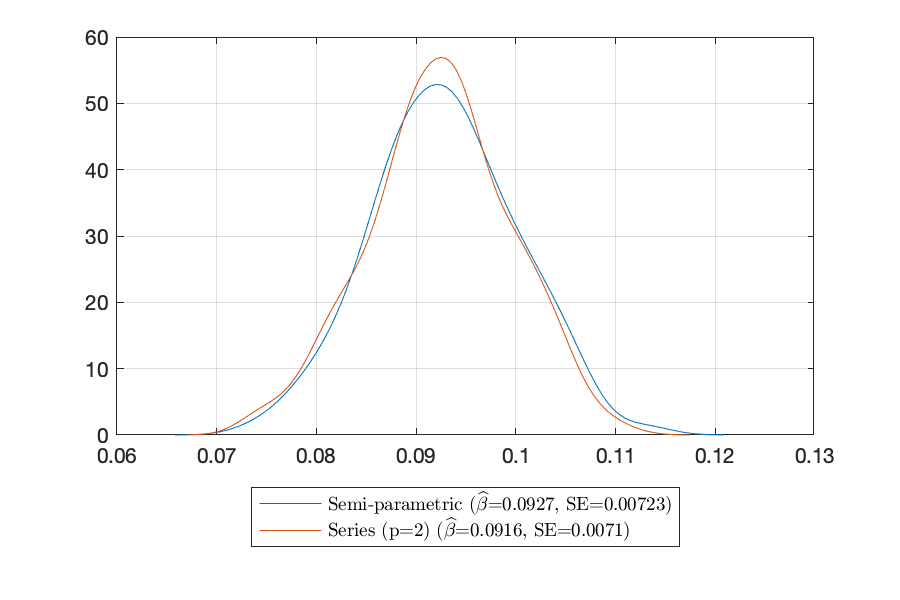
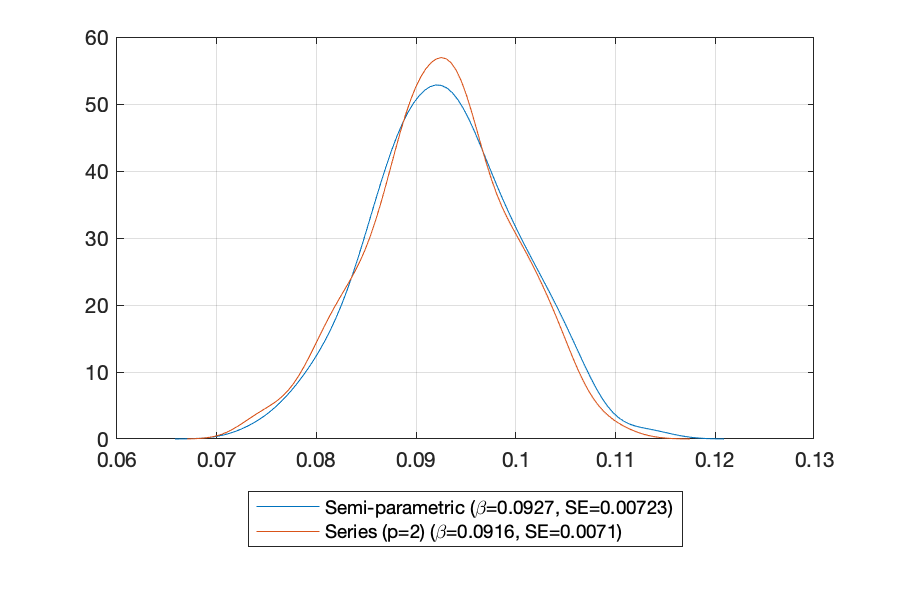
update fig 2

diff --git a/mpm/ps7/eric/main2.m b/mpm/ps7/eric/main2.m
@@ -93,10 +93,10 @@ ksdensity(ResBoot.semipara)
 ksdensity(ResBoot.linear)
 box on
 grid on
-legend({['Semi-parametric ($\widehat{\beta}$=' num2str(beta0, 3) ...
+lgd = legend({['Semi-parametric (\beta=' num2str(beta0, 3) ...
     ', SE=' num2str(std(ResBoot.semipara),3) ')'],...
-    ['Series (p=2) ($\widehat{\beta}$=' num2str(lm1.Coefficients{'X', 'Estimate'}, 3) ...
-    ', SE=', num2str(std(ResBoot.linear), 3) ')' ]}, 'Interpreter', 'latex',...
-    'Location', 'southoutside')
+    ['Series (p=2) (\beta=' num2str(lm1.Coefficients{'X', 'Estimate'}, 3) ...
+    ', SE=', num2str(std(ResBoot.linear), 3) ')' ]}, ...
+    'Location', 'southoutside');
 saveas(gcf, [figDir, 'bootCompare.png'])
 
